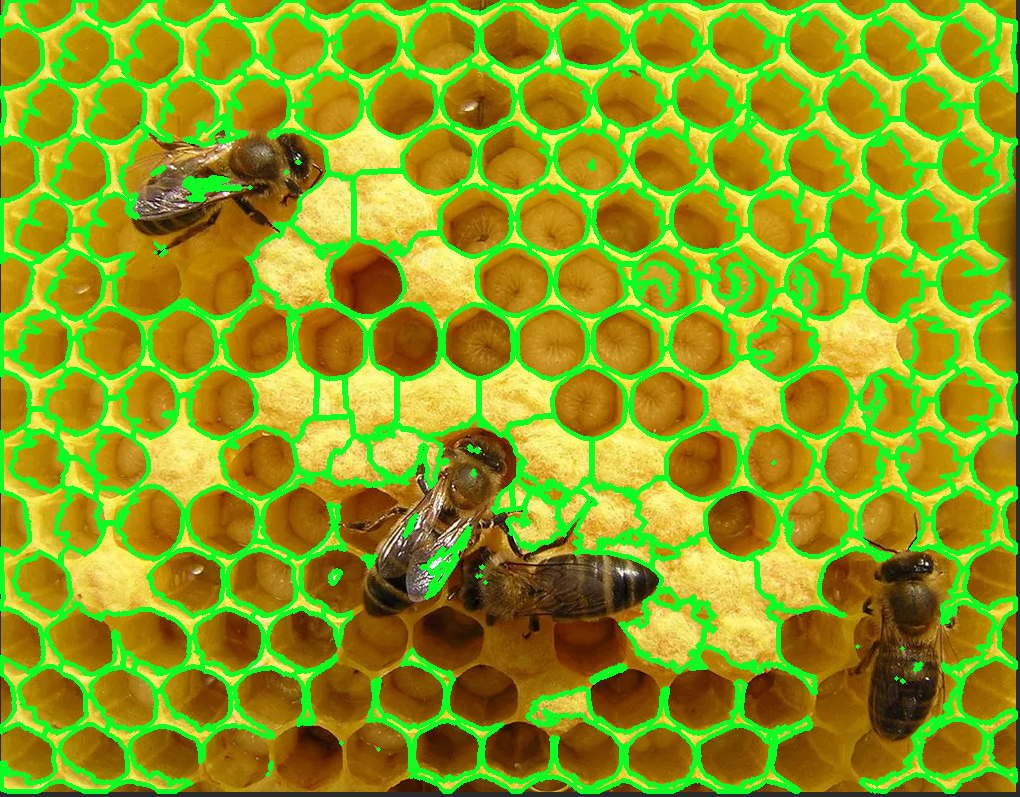
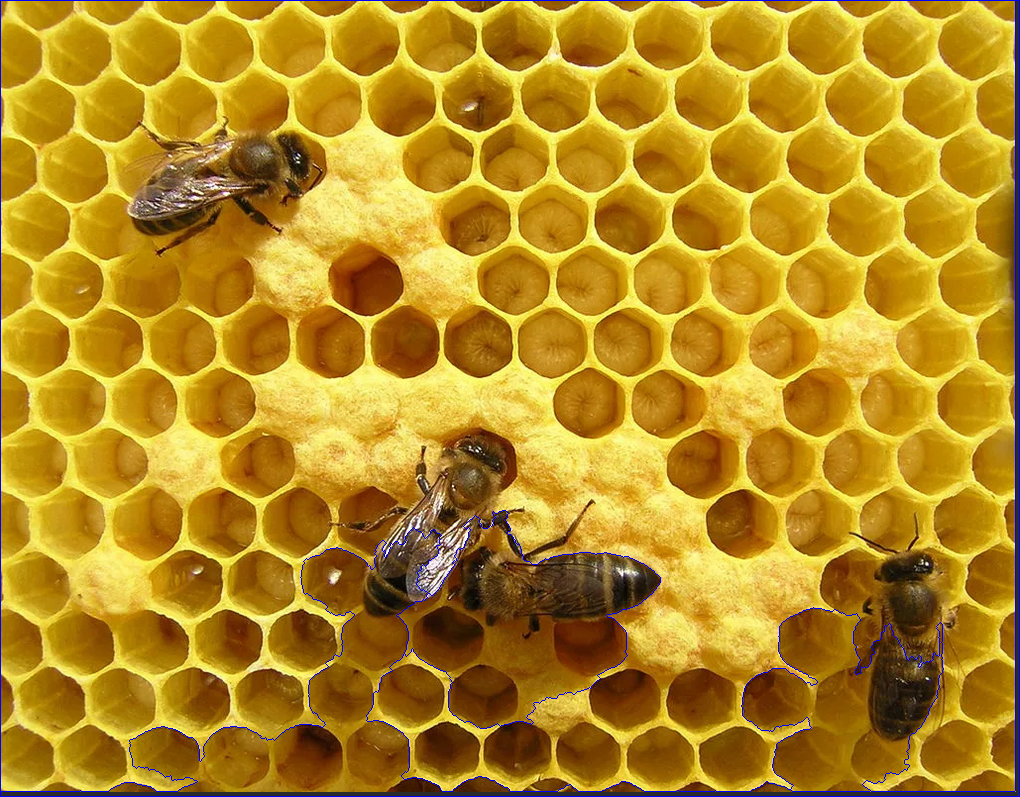
Work detecting.

diff --git a/BackgroundSubtraction/BackSub.py b/BackgroundSubtraction/BackSub.py
@@ -1,16 +1,22 @@
 from __future__ import print_function
+
+import cv2
 import cv2 as cv
 import argparse
+import numpy as np
+from vidstab import VidStab
 
 parser = argparse.ArgumentParser(description='This program shows how to use background subtraction methods provided by \
                                               OpenCV. You can process both videos and images.')
 parser.add_argument('--input', type=str, help='Path to a video or a sequence of image.', default='vtest.avi')
 parser.add_argument('--algo', type=str, help='Background subtraction method (KNN, MOG2).', default='MOG2')
 args = parser.parse_args()
+
 if args.algo == 'MOG2':
-    backSub = cv.createBackgroundSubtractorMOG2()
+    backSub = cv.createBackgroundSubtractorMOG(1, 16, True)
 else:
     backSub = cv.createBackgroundSubtractorKNN()
+
 capture = cv.VideoCapture(cv.samples.findFileOrKeep(args.input))
 if not capture.isOpened():
     print('Unable to open: ' + args.input)
@@ -20,14 +26,107 @@ while True:
     if frame is None:
         break
 
+    stabilizer = VidStab()
+    # Pass frame to stabilizer even if frame is None
+    # frame = stabilizer.stabilize_frame(input_frame=frame, smoothing_window=30)
+
+    # cv.rectangle(frame, (10, 2), (100, 20), (255, 255, 255), -1)
+    # cv.putText(frame, str(capture.get(cv.CAP_PROP_POS_FRAMES)), (15, 15),
+    #             cv.FONT_HERSHEY_SIMPLEX, 0.5, (0, 0, 0))
+
+    # frame = cv.cvtColor(frame, cv.COLOR_BGR2GRAY)
+
     fgMask = backSub.apply(frame)
+    dst = backSub.apply(frame)
+    # cv.medianBlur(dst, 5, dst)
 
-    cv.rectangle(frame, (10, 2), (100, 20), (255, 255, 255), -1)
-    cv.putText(frame, str(capture.get(cv.CAP_PROP_POS_FRAMES)), (15, 15),
-               cv.FONT_HERSHEY_SIMPLEX, 0.5, (0, 0, 0))
+    # apply the 3×3 mean filter on the image
+    # kernel = np.ones((3, 3), np.float32) / 9
+    # ImageFilter2D = cv.filter2D(dst, -1, kernel)
 
-    cv.imshow('Frame', frame)
-    cv.imshow('FG Mask', fgMask)
+    """Opening"""
+    # kernel = np.ones((3, 3), np.uint8)
+    # opening = cv.morphologyEx(dst, cv.MORPH_OPEN, kernel, iterations=2)
+    # sure_bg = cv.dilate(opening, kernel, iterations=3)
+    # Finding sure foreground area
+    # dist_transform = cv.distanceTransform(opening, cv.DIST_L2, 5)
+    # ret, sure_fg = cv.threshold(dist_transform, 0.7 * dist_transform.max(), 255, 0)
+    # Finding unknown region
+    # sure_fg = np.uint8(sure_fg)
+    # unknown = cv.subtract(sure_bg, sure_fg)
+
+    """Gaus"""
+    # gauss = cv.GaussianBlur(dst, (5, 5), 0)
+
+    """Canny"""
+    # canny = cv.Canny(dst, 150, 400)
+
+    """Connected component labeling"""
+    con_comp = cv2.connectedComponentsWithStats(dst, 4, cv2.CV_32S)
+    (numLabels, labels, stats, centroids) = con_comp
+
+    ## Show Images
+    # cv.imshow('Frame', frame)
+    cv.imshow('BackSub', dst)
+    # cv.imshow('Canny', dst)
+    # cv.imshow('Gauss', gauss)
+    # cv.imshow('FG Mask', fgMask)
+    # cv.imshow('MedianBlur', dst)
+    # cv.imshow('sure_fg', sure_fg)
+    # cv.imshow('Filter2D', ImageFilter2D)
+
+    # gray = cv2.cvtColor(dst, cv2.COLOR_BGR2GRAY)
+
+    thresh = dst
+    # thresh = cv2.threshold(gray, 0, 255, cv2.THRESH_BINARY_INV | cv2.THRESH_OTSU)[1]
+
+    # apply connected component analysis to the thresholded image
+    output = cv2.connectedComponentsWithStatsWithAlgorithm(thresh, 4, cv2.CV_32S, cv2.CCL_WU)
+    (numLabels, labels, stats, centroids) = output
+
+    output = frame.copy()
+    componentMask = (labels == 1).astype("uint8") * 255
+    componentMask -= (labels == 1).astype("uint8") * 255
+    # loop over the number of unique connected component labels
+    for i in range(0, numLabels):
+        # if this is the first component then we examine the
+        # *background* (typically we would just ignore this
+        # component in our loop)
+        if i == 0:
+            text = "examining component {}/{} (background)".format(i + 1, numLabels)
+        # otherwise, we are examining an actual connected component
+        else:
+            text = "examining component {}/{}".format(i + 1, numLabels)
+        # print a status message update for the current connected
+        # component
+        print("[INFO] {}".format(text))
+        # extract the connected component statistics and centroid for
+        # the current label
+        x = stats[i, cv2.CC_STAT_LEFT]
+        y = stats[i, cv2.CC_STAT_TOP]
+        w = stats[i, cv2.CC_STAT_WIDTH]
+        h = stats[i, cv2.CC_STAT_HEIGHT]
+        area = stats[i, cv2.CC_STAT_AREA]
+        (cX, cY) = centroids[i]
+
+        if (w < 500) & (h < 500) & (w > 40) & (h > 40) & ((w < 2 * h) | (h < 2 * w)):
+            print(w, '  ', h)
+            # clone our original image (so we can draw on it) and then draw
+            # a bounding box surrounding the connected component along with
+            # a circle corresponding to the centroid
+            cv2.rectangle(output, (x, y), (x + w, y + h), (0, 255, 0), 3)
+            cv2.circle(output, (int(cX), int(cY)), 4, (0, 0, 255), -1)
+
+            # construct a mask for the current connected component by
+            # finding a pixels in the labels array that have the current
+            # connected component ID
+
+            componentMask += (labels == i).astype("uint8") * 255
+    # show our output image and connected component mask
+    cv2.imshow("Output", output)
+    if 'componentMask' in globals():
+        cv2.imshow("Connected Component", componentMask)
+    # cv2.waitKey(0)
 
     keyboard = cv.waitKey(30)
     if keyboard == 'q' or keyboard == 27:

diff --git a/ConnectedComponentsLabeling/ConComLabeling2Neighbours.py b/ConnectedComponentsLabeling/ConComLabeling2Neighbours.py
@@ -1,0 +1,64 @@
+# import the necessary packages
+import argparse
+import cv2
+# construct the argument parser and parse the arguments
+ap = argparse.ArgumentParser()
+ap.add_argument("-i", "--image", required=True, help="path to input image")
+ap.add_argument("-c", "--connectivity", type=int, default=4, help="connectivity for connected component analysis")
+args = vars(ap.parse_args())
+
+
+# load the input image from disk, convert it to grayscale, and
+# threshold it
+image = cv2.imread(args["image"])
+gray = cv2.cvtColor(image, cv2.COLOR_BGR2GRAY)
+
+thresh = gray
+# thresh = cv2.threshold(gray, 0, 255, cv2.THRESH_BINARY_INV | cv2.THRESH_OTSU)[1]
+
+
+# apply connected component analysis to the thresholded image
+output = cv2.connectedComponentsWithStatsWithAlgorithm(thresh, args["connectivity"], cv2.CV_32S, cv2.CCL_WU)
+(numLabels, labels, stats, centroids) = output
+
+# loop over the number of unique connected component labels
+for i in range(0, numLabels):
+    # if this is the first component then we examine the
+    # *background* (typically we would just ignore this
+    # component in our loop)
+    if i == 0:
+        text = "examining component {}/{} (background)".format(i + 1, numLabels)
+    # otherwise, we are examining an actual connected component
+    else:
+        text = "examining component {}/{}".format( i + 1, numLabels)
+    # print a status message update for the current connected
+    # component
+    print("[INFO] {}".format(text))
+    # extract the connected component statistics and centroid for
+    # the current label
+    x = stats[i, cv2.CC_STAT_LEFT]
+    y = stats[i, cv2.CC_STAT_TOP]
+    w = stats[i, cv2.CC_STAT_WIDTH]
+    h = stats[i, cv2.CC_STAT_HEIGHT]
+    area = stats[i, cv2.CC_STAT_AREA]
+    (cX, cY) = centroids[i]
+
+    if (w > 40) & (h > 40) & ((w < 2*h) | (h < 2*w)):
+        print(w, '  ', h)
+        # clone our original image (so we can draw on it) and then draw
+        # a bounding box surrounding the connected component along with
+        # a circle corresponding to the centroid
+
+        output = image.copy()
+        cv2.rectangle(output, (x, y), (x + w, y + h), (0, 255, 0), 3)
+        cv2.circle(output, (int(cX), int(cY)), 4, (0, 0, 255), -1)
+
+        # construct a mask for the current connected component by
+        # finding a pixels in the labels array that have the current
+        # connected component ID
+        componentMask = (labels == i).astype("uint8") * 255
+
+        # show our output image and connected component mask
+        cv2.imshow("Output", output)
+        cv2.imshow("Connected Component", componentMask)
+        cv2.waitKey(0)

diff --git a/ConnectedComponentsLabeling/ConComLabeling.py b/ConnectedComponentsLabeling/ConComLabeling.py
@@ -1,0 +1,62 @@
+# import the necessary packages
+import argparse
+import cv2
+# construct the argument parser and parse the arguments
+ap = argparse.ArgumentParser()
+ap.add_argument("-i", "--image", required=True, help="path to input image")
+ap.add_argument("-c", "--connectivity", type=int, default=4, help="connectivity for connected component analysis")
+args = vars(ap.parse_args())
+
+
+# load the input image from disk, convert it to grayscale, and
+# threshold it
+image = cv2.imread(args["image"])
+gray = cv2.cvtColor(image, cv2.COLOR_BGR2GRAY)
+
+thresh = gray
+# thresh = cv2.threshold(gray, 0, 255, cv2.THRESH_BINARY_INV | cv2.THRESH_OTSU)[1]
+
+
+# apply connected component analysis to the thresholded image
+output = cv2.connectedComponentsWithStatsWithAlgorithm(thresh, args["connectivity"], cv2.CV_32S, cv2.CCL_WU)
+(numLabels, labels, stats, centroids) = output
+
+# loop over the number of unique connected component labels
+for i in range(0, numLabels):
+    # if this is the first component then we examine the
+    # *background* (typically we would just ignore this
+    # component in our loop)
+    if i == 0:
+        text = "examining component {}/{} (background)".format(i + 1, numLabels)
+    # otherwise, we are examining an actual connected component
+    else:
+        text = "examining component {}/{}".format( i + 1, numLabels)
+    # print a status message update for the current connected
+    # component
+    print("[INFO] {}".format(text))
+    # extract the connected component statistics and centroid for
+    # the current label
+    x = stats[i, cv2.CC_STAT_LEFT]
+    y = stats[i, cv2.CC_STAT_TOP]
+    w = stats[i, cv2.CC_STAT_WIDTH]
+    h = stats[i, cv2.CC_STAT_HEIGHT]
+    area = stats[i, cv2.CC_STAT_AREA]
+    (cX, cY) = centroids[i]
+
+    if (w > 40) & (h > 40) & ((w < 2*h) | (h < 2*w)):
+        print(w, '  ', h)
+        # clone our original image (so we can draw on it) and then draw
+        # a bounding box surrounding the connected component along with
+        # a circle corresponding to the centroid
+        output = image.copy()
+        cv2.rectangle(output, (x, y), (x + w, y + h), (0, 255, 0), 3)
+        cv2.circle(output, (int(cX), int(cY)), 4, (0, 0, 255), -1)
+
+        # construct a mask for the current connected component by
+        # finding a pixels in the labels array that have the current
+        # connected component ID
+        componentMask = (labels == i).astype("uint8") * 255
+        # show our output image and connected component mask
+        cv2.imshow("Output", output)
+        cv2.imshow("Connected Component", componentMask)
+        cv2.waitKey(0)

diff --git a/TrackerCSRT/TrackerCSRT.py b/TrackerCSRT/TrackerCSRT.py
@@ -1,0 +1,53 @@
+import os
+import cv2
+from vidstab import VidStab, layer_overlay, download_ostrich_video
+
+# Download test video to stabilize
+if not os.path.isfile("../videos/bees2.mp4"):
+    download_ostrich_video("../videos/bees2.mp4")
+
+# Initialize object tracker, stabilizer, and video reader
+object_tracker = cv2.TrackerCSRT_create()
+stabilizer = VidStab()
+vidcap = cv2.VideoCapture("../videos/bees2.mp4")
+
+# Initialize bounding box for drawing rectangle around tracked object
+object_bounding_box = None
+
+while True:
+    grabbed_frame, frame = vidcap.read()
+
+    # Pass frame to stabilizer even if frame is None
+    stabilized_frame = stabilizer.stabilize_frame(input_frame=frame, border_size=50)
+
+    # If stabilized_frame is None then there are no frames left to process
+    if stabilized_frame is None:
+        break
+
+    # Draw rectangle around tracked object if tracking has started
+    if object_bounding_box is not None:
+        success, object_bounding_box = object_tracker.update(stabilized_frame)
+
+        if success:
+            (x, y, w, h) = [int(v) for v in object_bounding_box]
+            cv2.rectangle(stabilized_frame, (x, y), (x + w, y + h),
+                          (0, 255, 0), 2)
+
+    # Display stabilized output
+    cv2.imshow('Frame', stabilized_frame)
+
+    key = cv2.waitKey(5)
+
+    # Select ROI for tracking and begin object tracking
+    # Non-zero frame indicates stabilization process is warmed up
+    if stabilized_frame.sum() > 0 and object_bounding_box is None:
+        object_bounding_box = cv2.selectROI("Frame",
+                                            stabilized_frame,
+                                            fromCenter=False,
+                                            showCrosshair=True)
+        object_tracker.init(stabilized_frame, object_bounding_box)
+    elif key == 27:
+        break
+
+vidcap.release()
+cv2.destroyAllWindows()

diff --git a/BackgroundSubtractionMath/BackSubMath.py b/BackgroundSubtractionMath/BackSubMath.py
@@ -1,0 +1,40 @@
+from __future__ import print_function
+import cv2 as cv
+import argparse
+import numpy as np
+
+parser = argparse.ArgumentParser(description='This program shows how to use background subtraction methods provided by \
+                                              OpenCV. You can process both videos and images.')
+parser.add_argument('--input', type=str, help='Path to a video or a sequence of image.', default='vtest.avi')
+args = parser.parse_args()
+
+capture = cv.VideoCapture(cv.samples.findFileOrKeep(args.input))
+if not capture.isOpened():
+    print('Unable to open: ' + args.input)
+    exit(0)
+
+history = []
+while True:
+    ret, frame = capture.read()
+    if frame is None:
+        break
+    frame = cv.cvtColor(frame, cv.COLOR_BGR2GRAY)
+
+    history.append(frame)
+
+    img = []
+    if len(history) > 5:
+        a1 = np.array(history[len(history) - 1])
+        a2 = np.array(history[len(history) - 2])
+        a3 = np.array(history[len(history) - 3])
+        a4 = np.array(history[len(history) - 4])
+        a5 = np.array(history[len(history) - 5])
+        img = a1-a2-a3-a4-a5
+        print(img)
+
+        ## Show Images
+        cv.imshow('Frame', img)
+
+    keyboard = cv.waitKey(30)
+    if keyboard == 'q' or keyboard == 27:
+        break
